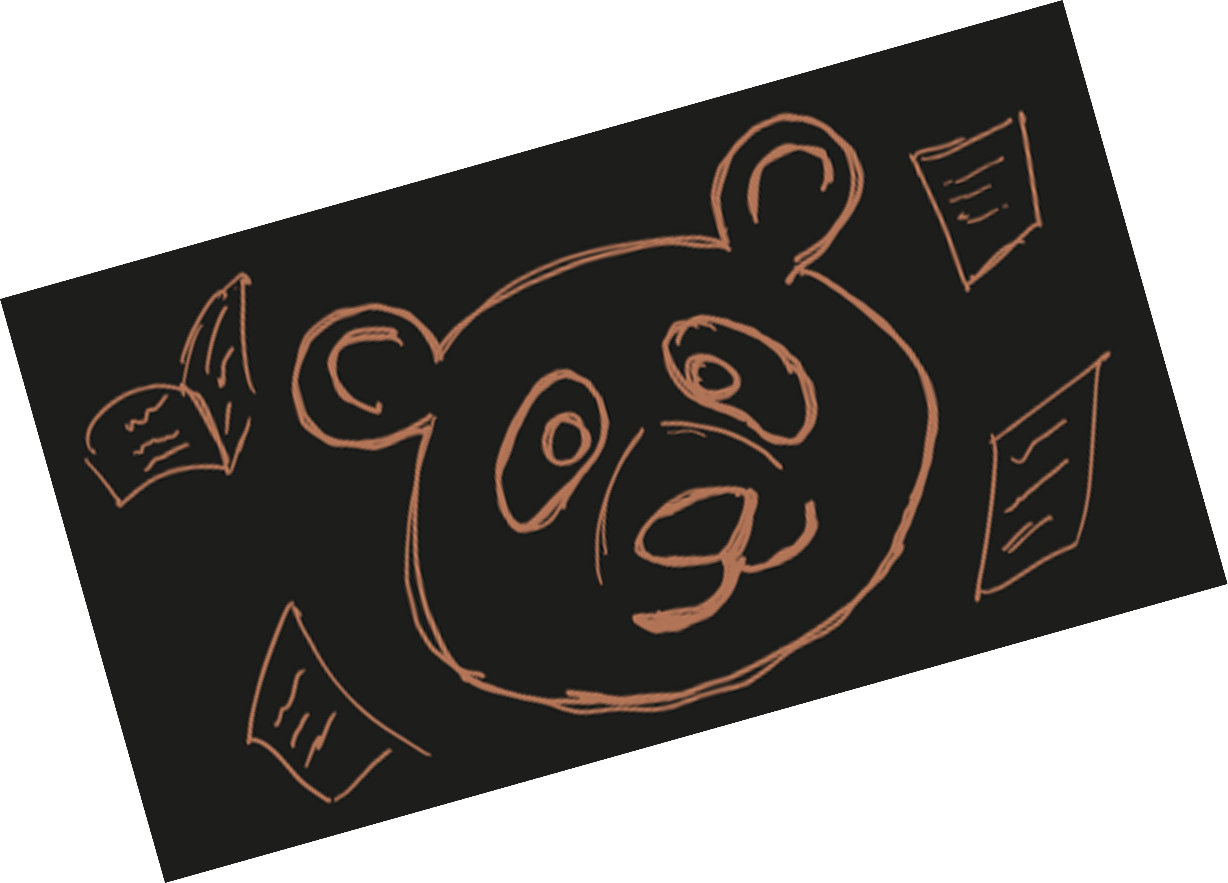
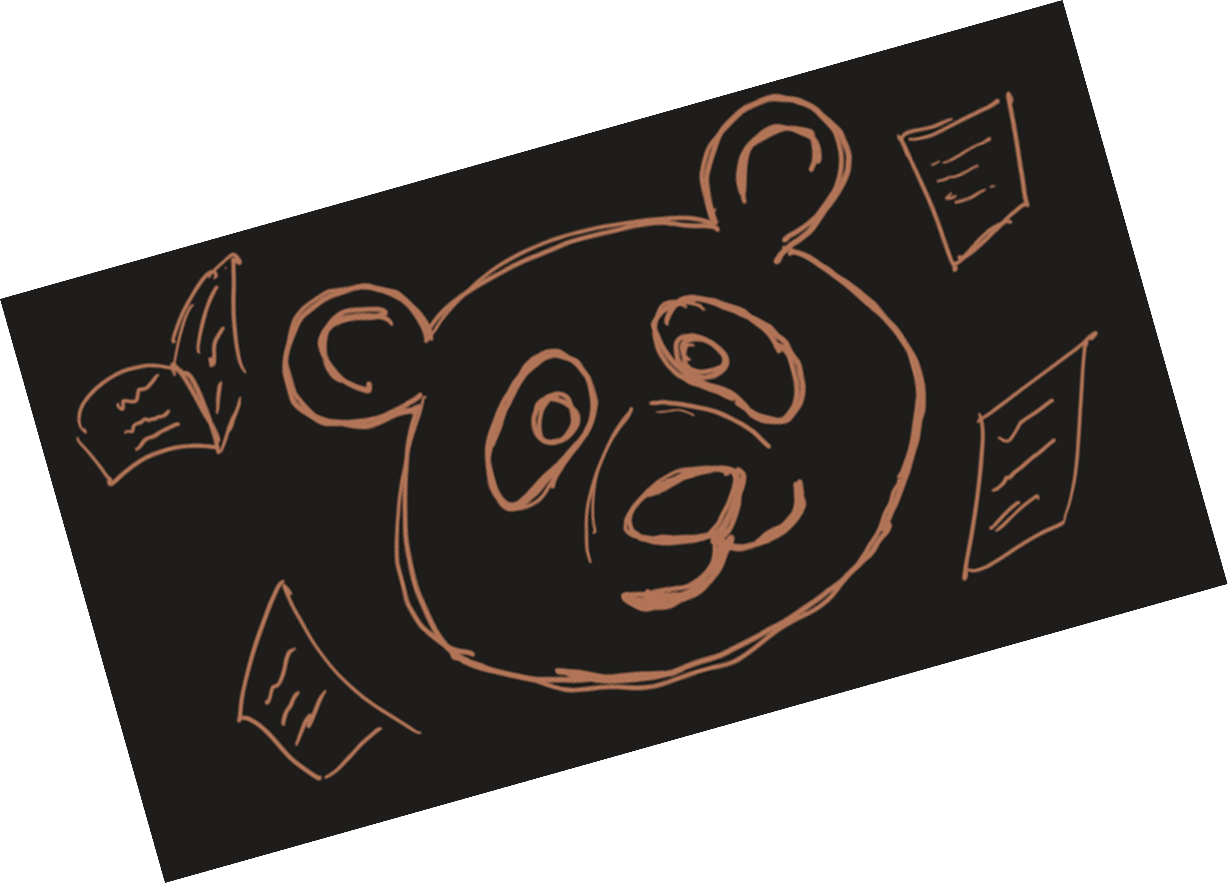
chore: chori hui thi chor ko nipta diya. Panda ka color chura ke bhaga tha sahi kardiya. talla bhi chota lagva diya hai

Changed region(s): [[0.0619, 0.0917, 0.8974, 0.8256], [0.1857, 0.6421, 0.3404, 0.9173]]

diff --git a/frontend/src/app/generate/page.tsx b/frontend/src/app/generate/page.tsx
@@ -707,10 +707,10 @@ const NotesGenerate = () => {
 
                   {isDisabled && (
                     <>
-                      <span className="absolute right-1 sm:right-3 top-1/2 -translate-y-1/2">
+                      <span className="absolute right-[-2] sm:right-3 top-1/2 -translate-y-1/2">
                         <Lock
-                          size={17}
-                          className={isDarkMode ? "text-[#A9A29A]" : ""}
+                          size={14}
+                          className={`${isDarkMode ? "text-[#A9A29A]" : ""} sm:w-6 sm:h-6`}
                         />
                       </span>
                       <div className="absolute -top-10 left-1/2 -translate-x-1/2 bg-gray-800 text-white p-2 rounded text-xs w-32 sm:w-40 opacity-0 group-hover:opacity-100 transition-opacity hidden group-hover:block pointer-events-none">
@@ -1221,7 +1221,7 @@ const NotesGenerate = () => {
             >
               {currentStep !== 0 && currentStep !== 3 && (
                 <button
-                  className="cursor-pointer px-2 sm:px-4 py-1 sm:py-2 border border-[#B17457] rounded-lg transition-colors flex items-center gap-1 sm:gap-2 hover:bg-gray-100"
+                  className={`${isDarkMode ? "hover:bg-[#1E1D1B]" : "hover:bg-gray-100" } cursor-pointer px-2 sm:px-4 py-1 sm:py-2 border border-[#B17457] rounded-lg transition-colors flex items-center gap-1 sm:gap-2 `}
                   onClick={() =>
                     setCurrentStep((prev) => Math.max(prev - 1, 0))
                   }

diff --git a/frontend/src/components/global/faq.tsx b/frontend/src/components/global/faq.tsx
@@ -9,7 +9,7 @@ import {
   AccordionTrigger,
 } from "@/components/ui/accordion";
 import { faqs } from "@/lib/constant";
-import { montserrat600, montserrat500 } from "@/lib/font-utils";
+import { montserrat700, montserrat500 } from "@/lib/font-utils";
 
 export function Faq() {
   const { theme, resolvedTheme } = useTheme();
@@ -26,9 +26,9 @@ export function Faq() {
       className={`w-full ${isDarkMode ? "bg-[#1E1D1B]" : "bg-[#FAF7F0]"} py-10`}
     >
       <div
-        className={`w-full text-4xl sm:text-5xl text-center mb-6 sm:mb-10 ${
+        className={`w-full text-xl sm:text-5xl text-center mb-6 sm:mb-10 ${
           isDarkMode ? "text-[#D0CCC4]" : "text-[#4A4947]"
-        } ${montserrat600.className}`}
+        } ${montserrat700.className}`}
       >
         <p>Frequently Asked Questions</p>
       </div>

diff --git a/frontend/src/app/page.tsx b/frontend/src/app/page.tsx
@@ -34,7 +34,7 @@ export default function Home() {
         } `}
     >
       <Navbar />
-      <div className="flex flex-col items-center justify-center min-h-screen px-4 py-8 md:py-0">
+      <div className="flex flex-col items-center justify-center h-[30rem] sm:min-h-screen px-4 py-8 md:py-0 sm:pt-0 pt-28">
         <p
           className={`${indieFlower.className} text-[2rem] md:text-[3.125rem] ${isDarkMode ? "text-[#D0CCC4]" : "text-[#4A4947]"
             } text-center`}
